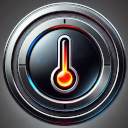
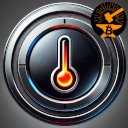
Added Makerbits shill (#2)

Changed region(s): [[0.6875, 0.0, 1.0, 0.3125]]

diff --git a/description.md b/description.md
@@ -3,5 +3,6 @@ Bitcoin Switch - <small>[LNbits](https://github.com/lnbits/lnbits) extension</sm
 Turn things on with bitcoin!
 
 [bitcoinswitch.lnbits.com](https://bitcoinswitch.lnbits.com)
-
+[Check out the tutorial (liking and subscribing is contributing to the project ❤)](https://www.youtube.com/@makerbits7700)
+[Join the support group](https://t.me/makerbits)
 `Author: Ben Arc` `Author: DNI`

diff --git a/README.md b/README.md
@@ -3,5 +3,6 @@
 Turn things on with bitcoin!
 
 [bitcoinswitch.lnbits.com](https://bitcoinswitch.lnbits.com)
-
+[Check out the tutorial (liking and subscribing is contributing to the project ❤)](https://www.youtube.com/@makerbits7700)
+[Join the support group](https://t.me/makerbits)
 `Author: Ben Arc` `Author: DNI`
